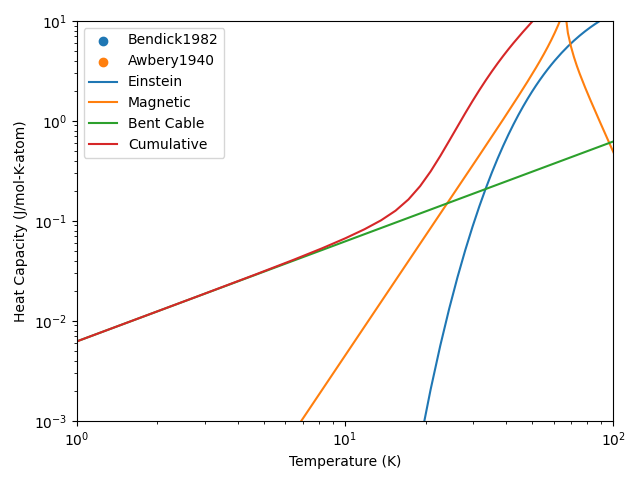
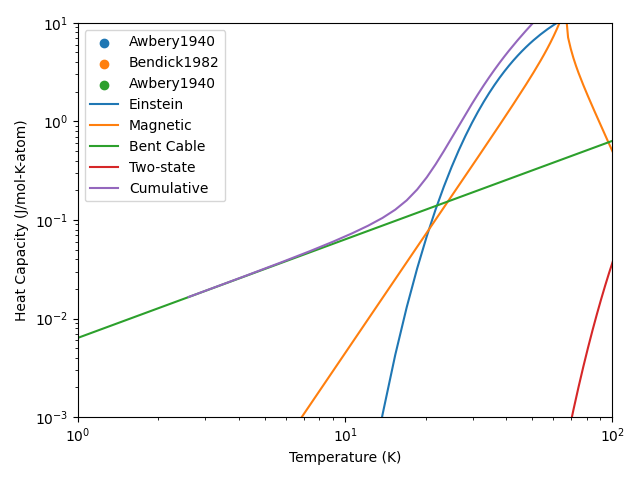
Implemented two-state model Cp fitting routine into fit_segmented_regression. Updated FE FCC fitting routine to include the two-state model.

diff --git a/libreCalphad/databases/LC-steels_validation/FE/FE-fit-fcc.py b/libreCalphad/databases/LC-steels_validation/FE/FE-fit-fcc.py
@@ -9,6 +9,7 @@ from libreCalphad.models.segmented_regression import (
     _einstein_Cp,
     _holzapfel_debye_Cp,
     _xiong_Cp,
+    _twostate_Cp,
     calc_enthalpy,
     calc_entropy,
     create_espei_custom_refstate_stable,
@@ -32,37 +33,69 @@ datasets = load_datasets(recursive_glob(dataset_folder))
 components = ["FE", "VA"]
 phase = ["FCC_A1"]
 
+query = (
+    (where("phases") == phase)
+    & (where("components") == components)
+    & (where("output") == "CPM")
+)
+search_results = datasets.search(query)
+
 R = 8.314472
 # magnetic model constants
 beta_Fe = 0.7  # magnetic moment per atom Fe
 structure_factor = 0.28
-Tc_Fe = 67  # K, Curie/Neel temperature for Fe
+Tn_Fe = 67  # K, Curie/Neel temperature for Fe
 theta_Fe = 309  # K, Einstein temperature from Chen & Sundman
-xiong_params = {"beta": beta_Fe, "p": structure_factor, "Tc": Tc_Fe}
-sr_df, min_fits = fit_segmented_regression(
-    dataset_folder,
-    ["FE", "VA"],
-    phase,
-    xiong_params=xiong_params,
-    models={
-        "einstein",
+model_dict = {
+    "einstein": {"theta": [300, "fit"]},
+    "xiong": {
+        "beta": [beta_Fe, "fix"],
+        "p": [structure_factor, "fix"],
+        "Tn": [Tn_Fe, "fix"],
     },
-)
-H298 = calc_enthalpy(298.15, min_fits, xiong_params=xiong_params)
-S298 = calc_entropy(298.15, min_fits, xiong_params=xiong_params)
+    "bcm": {
+        "beta_1": [0.01, "fit"],
+        "beta_2": [0.04, "fit"],
+        "tau": [1750, "fit"],
+        "gamma": [50, "fit"],
+    },
+    "two-state": {"dE": [[9.02352375e3, -2.4952226], "fit"]},
+}
+min_fits, model_dict = fit_segmented_regression(search_results, model_dict)
+theta_Fe = model_dict["einstein"]["theta"][0]
+beta_Fe = model_dict["xiong"]["beta"][0]
+structure_factor = model_dict["xiong"]["p"][0]
+Tn_Fe = model_dict["xiong"]["Tn"][0]
+beta_1 = model_dict["bcm"]["beta_1"][0]
+beta_2 = model_dict["bcm"]["beta_2"][0]
+tau = model_dict["bcm"]["tau"][0]
+gamma = model_dict["bcm"]["gamma"][0]
+de0 = model_dict["two-state"]["dE"][0][0]
+de1 = model_dict["two-state"]["dE"][0][1]
+
+# H298 = calc_enthalpy(298.15, min_fits, xiong_params=xiong_params)
+# S298 = calc_entropy(298.15, min_fits, xiong_params=xiong_params)
 # initialize a dataframe for the model
 df_model = pd.DataFrame()
-df_model["temperature"] = np.linspace(1, np.max(sr_df["temperature"]), num=1000)
+df_model["temperature"] = np.linspace(1, 1600, num=1000)
 
 print("Optimized model parameters:")
-print(f"Theta_(D/E)={min_fits.x[0]:4f}")
-print(f"beta_1={min_fits.x[1]:3f}")
-print(f"beta_2={min_fits.x[2]:3f}")
-print(f"tau={min_fits.x[3]:3f}")
-print(f"gamma={min_fits.x[4]:3f}")
+print(f"Theta_E={theta_Fe:4f}")
+print("Xiong model parameters:")
+print(f"beta={beta_Fe}")
+print(f"structure factor={structure_factor}")
+print(f"Tn={Tn_Fe}")
+print("Bent cable model")
+print(f"beta_1={beta_1:3f}")
+print(f"beta_2={beta_2:3f}")
+print(f"tau={tau:3f}")
+print(f"gamma={gamma:3f}")
+print("Two-state model")
+print(f"dE0={de0:5f}")
+print(f"dE1={de1:5f}")
 print(f"RSE: {min_fits.fun:.4f} J/mol/K")
-print(f"H298: {H298}")
-print(f"S298: {S298}")
+# print(f"H298: {H298}")
+# print(f"S298: {S298}")
 
 # Save it to libreCalphad's custom refstate json file
 
@@ -71,7 +104,7 @@ refstate_file = impresources.files("refstate") / "LCRefstates.json"
 # Add the fitted refstate results
 # Not passing the phase as a kwarg makes libreCalphad assume this is a stable phase Gibbs energy expression
 upsert_custom_refstate_json(
-    refstate_file, "FE", min_fits, phase="FCC_A1", xiong_params=xiong_params
+    refstate_file, "FE", min_fits, phase="FCC_A1", model_dict=model_dict
 )
 
 # Need to add the lattice stability for FE also, can directly write it to the json
@@ -89,74 +122,74 @@ ser_file = impresources.files("refstate") / "LCSERparams.json"
 # df_model["debye_model"] = _holzapfel_debye_Cp(df_model["temperature"], *min_fits.x[:1])
 df_model["einstein_model"] = _einstein_Cp(df_model["temperature"], theta_Fe)
 df_model["magnetic_model"] = _xiong_Cp(
-    df_model["temperature"], beta_Fe, structure_factor, Tc_Fe
+    df_model["temperature"], beta_Fe, structure_factor, Tn_Fe
 )
-df_model["bent_cable_model"] = _bent_cable_Cp(df_model["temperature"], *min_fits.x[1:])
-df_model["cumulative_model"] = get_segmented_regression_Cp(
-    df_model["temperature"], min_fits, xiong_params=xiong_params, use_einstein=True
+df_model["bent_cable_model"] = _bent_cable_Cp(
+    df_model["temperature"], beta_1, beta_2, tau, gamma
+)
+df_model["two-state"] = _twostate_Cp(df_model["temperature"], [de0, de1])
+df_model["cumulative_model"] = (
+    df_model["einstein_model"]
+    + df_model["magnetic_model"]
+    + df_model["bent_cable_model"]
+    + df_model["two-state"]
 )
 
+
 fig, ax = plt.subplots()
-for reference in sr_df["reference"].unique():
-    sr_sub = sr_df.query("reference == @reference")
-    ax.scatter(sr_sub["temperature"], sr_sub["Cp"], label=reference)
-# ax.plot(df_model["temperature"], df_model["debye_model"], label="Debye")
+for dataset in search_results:
+    ax.scatter(
+        dataset["conditions"]["T"],
+        np.array(dataset["values"]).squeeze(),
+        label=dataset["reference"],
+    )
 ax.plot(df_model["temperature"], df_model["einstein_model"], label="Einstein")
 ax.plot(df_model["temperature"], df_model["magnetic_model"], label="Magnetic")
 ax.plot(df_model["temperature"], df_model["bent_cable_model"], label="Bent Cable")
-# ax.plot(
-#     df_model["temperature"],
-#     df_model["debye_model"] + df_model["bent_cable_model"],
-#     label="Debye+BCM",
-# )
+ax.plot(df_model["temperature"], df_model["two-state"], label="Two-state")
 ax.plot(df_model["temperature"], df_model["cumulative_model"], label="Cumulative")
-ax.legend()
 
 ax.set_xlabel("Temperature (K)")
 ax.set_ylabel("Heat Capacity (J/mol-K-atom)")
+ax.legend()
 fig.tight_layout()
 fig.savefig("./FE-Cp-FCC_A1.png")
 
 # < 300 K
 fig, ax = plt.subplots()
-for reference in sr_df["reference"].unique():
-    sr_sub = sr_df.query("reference == @reference")
-    ax.scatter(sr_sub["temperature"], sr_sub["Cp"], label=reference)
-# ax.plot(df_model["temperature"], df_model["debye_model"], label="Debye")
+for dataset in search_results:
+    ax.scatter(
+        dataset["conditions"]["T"],
+        np.array(dataset["values"]).squeeze(),
+        label=dataset["reference"],
+    )
 ax.plot(df_model["temperature"], df_model["einstein_model"], label="Einstein")
 ax.plot(df_model["temperature"], df_model["magnetic_model"], label="Magnetic")
 ax.plot(df_model["temperature"], df_model["bent_cable_model"], label="Bent Cable")
-# ax.plot(
-#     df_model["temperature"],
-#     df_model["debye_model"] + df_model["bent_cable_model"],
-#     label="Debye+BCM",
-# )
+ax.plot(df_model["temperature"], df_model["two-state"], label="Two-state")
 ax.plot(df_model["temperature"], df_model["cumulative_model"], label="Cumulative")
-ax.legend()
 
 ax.set_xlim((0, 300))
 ax.set_xlabel("Temperature (K)")
 ax.set_ylim((0, 30))
 ax.set_ylabel("Heat Capacity (J/mol-K-atom)")
+ax.legend()
 fig.tight_layout()
 fig.savefig("./FE-Cp-FCC_A1-300K.png")
 
 # Close to 0 K
 fig, ax = plt.subplots()
-for reference in sr_df["reference"].unique():
-    sr_sub = sr_df.query("reference == @reference")
-    ax.scatter(sr_sub["temperature"], sr_sub["Cp"], label=reference)
-# ax.plot(df_model["temperature"], df_model["debye_model"], label="Debye")
+for dataset in search_results:
+    ax.scatter(
+        dataset["conditions"]["T"],
+        np.array(dataset["values"]).squeeze(),
+        label=dataset["reference"],
+    )
 ax.plot(df_model["temperature"], df_model["einstein_model"], label="Einstein")
 ax.plot(df_model["temperature"], df_model["magnetic_model"], label="Magnetic")
 ax.plot(df_model["temperature"], df_model["bent_cable_model"], label="Bent Cable")
-# ax.plot(
-#     df_model["temperature"],
-#     df_model["debye_model"] + df_model["bent_cable_model"],
-#     label="Debye+BCM",
-# )
+ax.plot(df_model["temperature"], df_model["two-state"], label="Two-state")
 ax.plot(df_model["temperature"], df_model["cumulative_model"], label="Cumulative")
-ax.legend()
 
 ax.set_xlim((1e0, 1e2))
 ax.set_xscale("log")
@@ -164,5 +197,6 @@ ax.set_xlabel("Temperature (K)")
 ax.set_ylim((1e-3, 1e1))
 ax.set_yscale("log")
 ax.set_ylabel("Heat Capacity (J/mol-K-atom)")
+ax.legend()
 fig.tight_layout()
 fig.savefig("Fe-Cp-FCC_A1-0K.png")

diff --git a/libreCalphad/models/segmented_regression.py b/libreCalphad/models/segmented_regression.py
@@ -37,6 +37,7 @@ from scipy.integrate import quad
 from scipy.optimize import curve_fit, minimize
 import symengine as se
 from tinydb import where
+import warnings
 import yaml
 
 R = 8.314472  # J/mol/K
@@ -76,16 +77,25 @@ def _twostate_Cp(T_arr, dE):
     return ret_arr
 
 
-def _twostate_gibbs(T_arr, dE):
+def _twostate_gibbs(T_arr, dE, ret_expr=False):
     def _calc_twostate_gibbs(T, dE):
+        if isinstance(dE, list):
+            dE = np.sum([dE[i] * T**i for i in range(len(dE))])
         return -R * T * np.log(1 + np.exp(-dE / (R * T)))
+
+    def _sympy_twostate_gibbs(T, dE):
+        if isinstance(dE, list):
+            dE = np.sum([dE[i] * v.T**i for i in range(len(dE))])
+        return -v.R * v.T * se.log(1 + se.exp(-dE / (v.R * v.T)))
 
     if isinstance(T_arr, (int, float)):
         ret_arr = _calc_twostate_gibbs(T_arr, dE)
+    elif ret_expr:
+        ret_arr = _sympy_twostate_gibbs(None, dE)
     else:
         ret_arr = np.array([])
         for T in T_arr:
-            ret_arr = np.append(ret_arr, _calc_twostate_gibbs(T, d))
+            ret_arr = np.append(ret_arr, _calc_twostate_gibbs(T, dE))
     return ret_arr
 
 
@@ -547,6 +557,22 @@ def _fit_segmented_regression(x, arg_dict):
             else:
                 model_params.append(param_list[0])
         model_Cp += _bent_cable_Cp(temperature_array, *model_params)
+    if "two-state" in list(models.keys()):
+        param_list = models["two-state"]["dE"]
+        if "fit" in param_list:
+            if isinstance(param_list[0], (float, int)):
+                idx = param_list[-1]
+                model_params.append(x[idx])
+            else:
+                idx_list = param_list[-1]
+                for j in idx_list:
+                    model_params.append(x[j])
+        else:
+            if isinstance(param_list[0], (float, int)):
+                model_params.append(param_list[0])
+            else:
+                for param in param_list[0]:
+                    model_params.append(param)
 
     return _calc_RSE(model_Cp, Cp_array)
 
@@ -556,6 +582,12 @@ def fit_segmented_regression(
     models,
 ):
     # TODO: Use the pycalphad DB for loading model properties.
+    implemented_models = ["einstein", "holzapfel", "xiong", "bcm", "two-state"]
+    for model in list(models.keys()):
+        if model not in implemented_models:
+            raise NotImplementedError(
+                f"{model} not implemented. Options are {implemented_models}"
+            )
 
     # Load CPM data for modeling
     df = pd.DataFrame()
@@ -596,6 +628,8 @@ def fit_segmented_regression(
         "beta_2": (0, 1),
         "tau": (0, 3000),
         "gamma": (0, 150),
+        "dE0": (0, 15000),
+        "dE1": (-100, 100),
     }
     bounds = []
     i = 0
@@ -702,6 +736,33 @@ def fit_segmented_regression(
                     f"Bent-cable model specified, but no setup correctly for parameter [{param}]."
                 )
 
+    if "two-state" in list(models.keys()):
+        param_list = models["two-state"]["dE"]
+        if "fit" in param_list:
+            if isinstance(param_list[0], (float, int)):
+                params.append(param_list[0])
+                if len(param_list) == 3:
+                    bounds.append(param_list[2])
+                else:
+                    bounds.append(default_bounds["dE0"])
+                param_list.append(i)
+                i += 1
+            else:  # Need to fit multiple parameters in a list because dE=f(T)
+                param_sublist = []
+                for j in range(len(param_list[0])):
+                    params.append(param_list[0][j])
+                    if len(param_list) == 3:
+                        bounds.append(param_list[2][j])
+                    else:
+                        bounds.append(default_bounds[f"dE{j}"])
+                    param_sublist.append(i)
+                    i += 1
+                param_list.append(param_sublist)
+        elif "fix" in param_list:
+            pass
+        else:
+            raise ValueError(f"Two-state model specified, but not setup correctly.")
+
     arg_dict["models"] = models
     # optimize the model parameters
     # initialize with values for iron, not sure how sensitive it will be
@@ -722,7 +783,11 @@ def fit_segmented_regression(
         for param, param_list in mdict.items():
             if "fit" in param_list:
                 # update the provided parameter with the fitted parameter
-                param_list[0] = min_fits.x[param_list[-1]]
+                if isinstance(param_list[-1], int):
+                    param_list[0] = min_fits.x[param_list[-1]]
+                else:
+                    for j in range(len(param_list[0])):
+                        param_list[0][j] = min_fits.x[param_list[-1][j]]
     return min_fits, models
 
 
